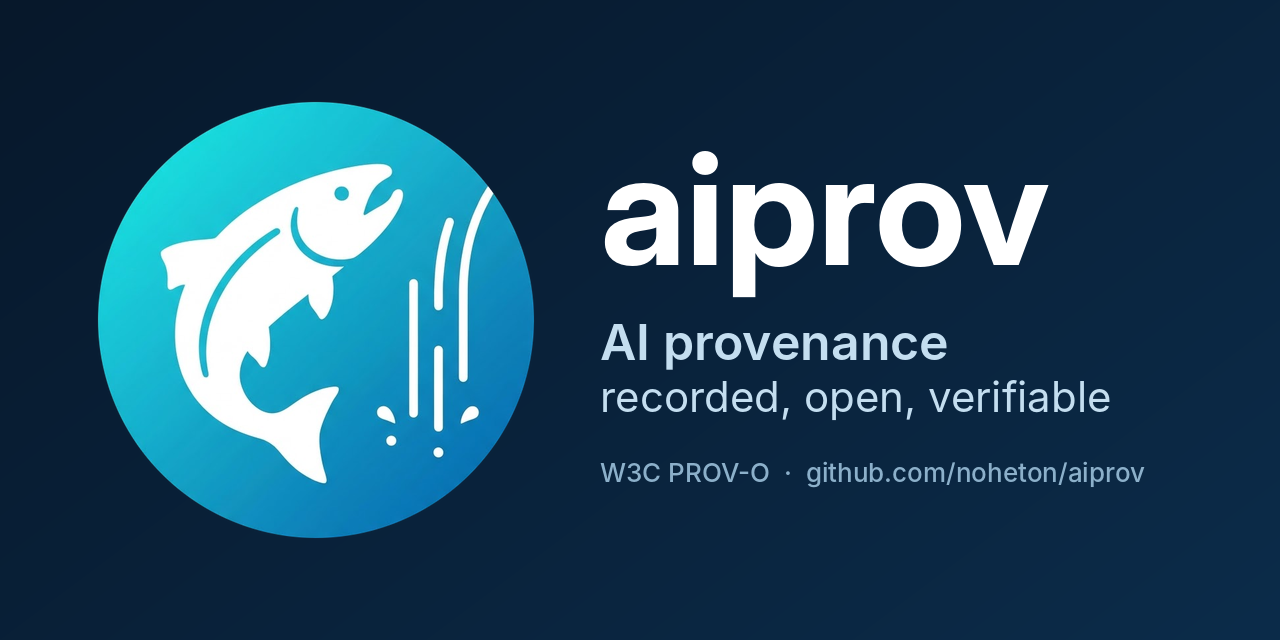
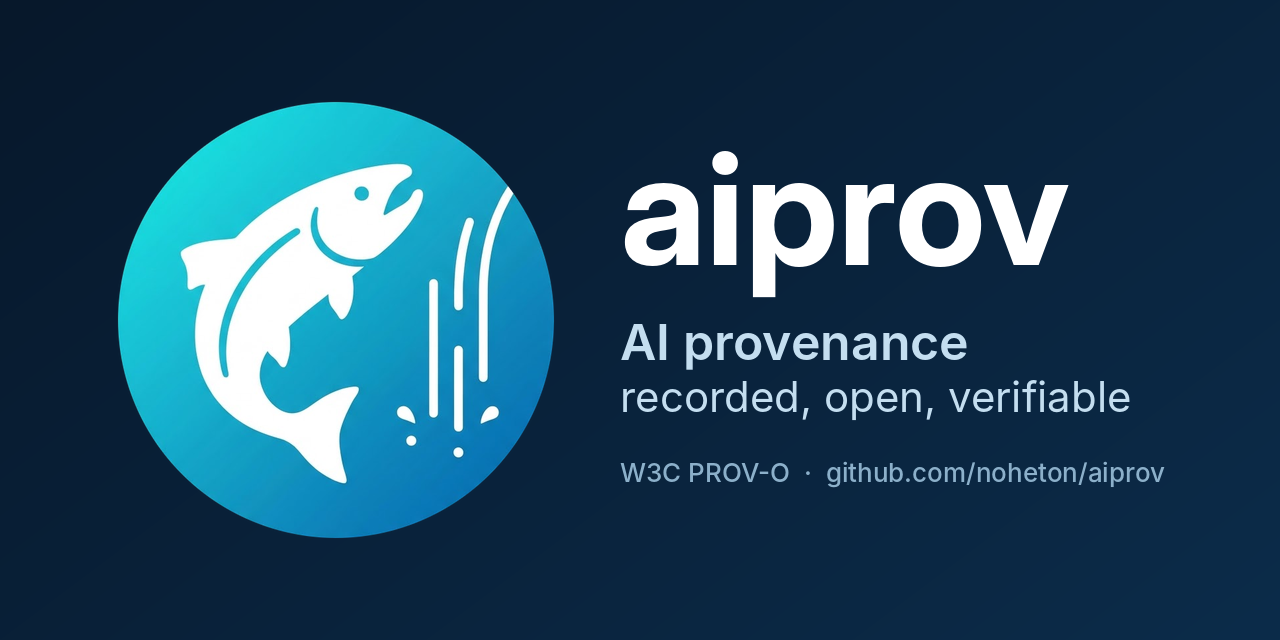
docs: social preview centred in the safe area of GitHub's card template

diff --git a/assets/make_social_preview.py b/assets/make_social_preview.py
@@ -14,7 +14,8 @@ import numpy as np
 from PIL import Image, ImageDraw, ImageFont
 
 FONTS = Path("/usr/share/fonts/opentype/inter")
-W, H, BADGE, LEFT = 1280, 640, 440, 96
+# GitHub's repository card template: 1280 x 640, keep everything important 40 pt (80 px) inside the edges
+W, H, SAFE, BADGE, GAP = 1280, 640, 80, 440, 64
 THEMES = {
     "light": {"bg": ((246, 250, 253), (226, 238, 247)), "title": (11, 37, 69), "text": (40, 72, 102), "small": (86, 112, 138)},
     "dark": {"bg": ((7, 24, 43), (12, 44, 74)), "title": (255, 255, 255), "text": (196, 222, 240), "small": (140, 176, 202)},
@@ -51,10 +52,7 @@ def main() -> None:
     ramp = np.linspace(0, 1, W)[None, :, None] * 0.6 + np.linspace(0, 1, H)[:, None, None] * 0.4
     bg = np.array([r0, g0, b0]) + (np.array([r1, g1, b1]) - np.array([r0, g0, b0])) * ramp
     card = Image.fromarray(bg.astype(np.uint8), "RGB").convert("RGBA")
-    card.alpha_composite(badge(src, BADGE), (LEFT, (H - BADGE) // 2))
-
-    x = LEFT + BADGE + 64
-    room = W - x - 72
+    room = W - 2 * SAFE - BADGE - GAP
     d = ImageDraw.Draw(card)
     lines = [
         ("aiprov", FONTS / "InterDisplay-Bold.otf", 156, t["title"], 0),
@@ -64,6 +62,10 @@ def main() -> None:
     ]
     fonts = [fit(text, path, size, room) for text, path, size, _, _ in lines]
     heights = [f.getbbox(text)[3] - f.getbbox(text)[1] for (text, *_), f in zip(lines, fonts, strict=True)]
+    text_width = max(f.getlength(text) for (text, *_), f in zip(lines, fonts, strict=True))
+    left = SAFE + round((W - 2 * SAFE - (BADGE + GAP + text_width)) / 2)
+    card.alpha_composite(badge(src, BADGE), (left, (H - BADGE) // 2))
+    x = left + BADGE + GAP
     y = (H - (sum(heights) + sum(gap for *_, gap in lines))) // 2
     for (text, _, _, colour, gap), font, h in zip(lines, fonts, heights, strict=True):
         y += gap

diff --git a/assets/PROVENANCE.md b/assets/PROVENANCE.md
@@ -19,6 +19,7 @@
 |---|---|
 | What | `aiprov-social-preview.png`, 1280 × 640 px, for the repository's social preview; the owner sets it in the repository settings (GitHub has no API for it) |
 | How it was made | by an AI session (Claude Opus 5.5 in OpenCode) on the owner's request on 2026-10-25, with `make_social_preview.py` (theme `dark`) from `aiprov-icon-source-gemini.png`: the badge cut as in `make_icon.py` and resized once, from the 665 px circle down to 440 px; a background gradient; the text set in Inter 4.1 (SIL Open Font License 1.1; Debian package `fonts-inter` 4.1+ds-1, Inter Display Bold, Inter SemiBold, Regular, Medium). The script reproduces the file byte for byte on a machine with the same fonts and Pillow |
+| Layout | GitHub's repository card template: everything important stays inside the 80 px (40 pt) safe area; the badge and text block is centred in it (measured: 38 px left, 35 px right, 22 px top and bottom) |
 | Text | "aiprov", "AI provenance", "recorded, open, verifiable", "W3C PROV-O · github.com/noheton/aiprov" |
 | Generated content | the badge only (see above); layout and text are deterministic |
[2 lines of base64/hex data omitted]
